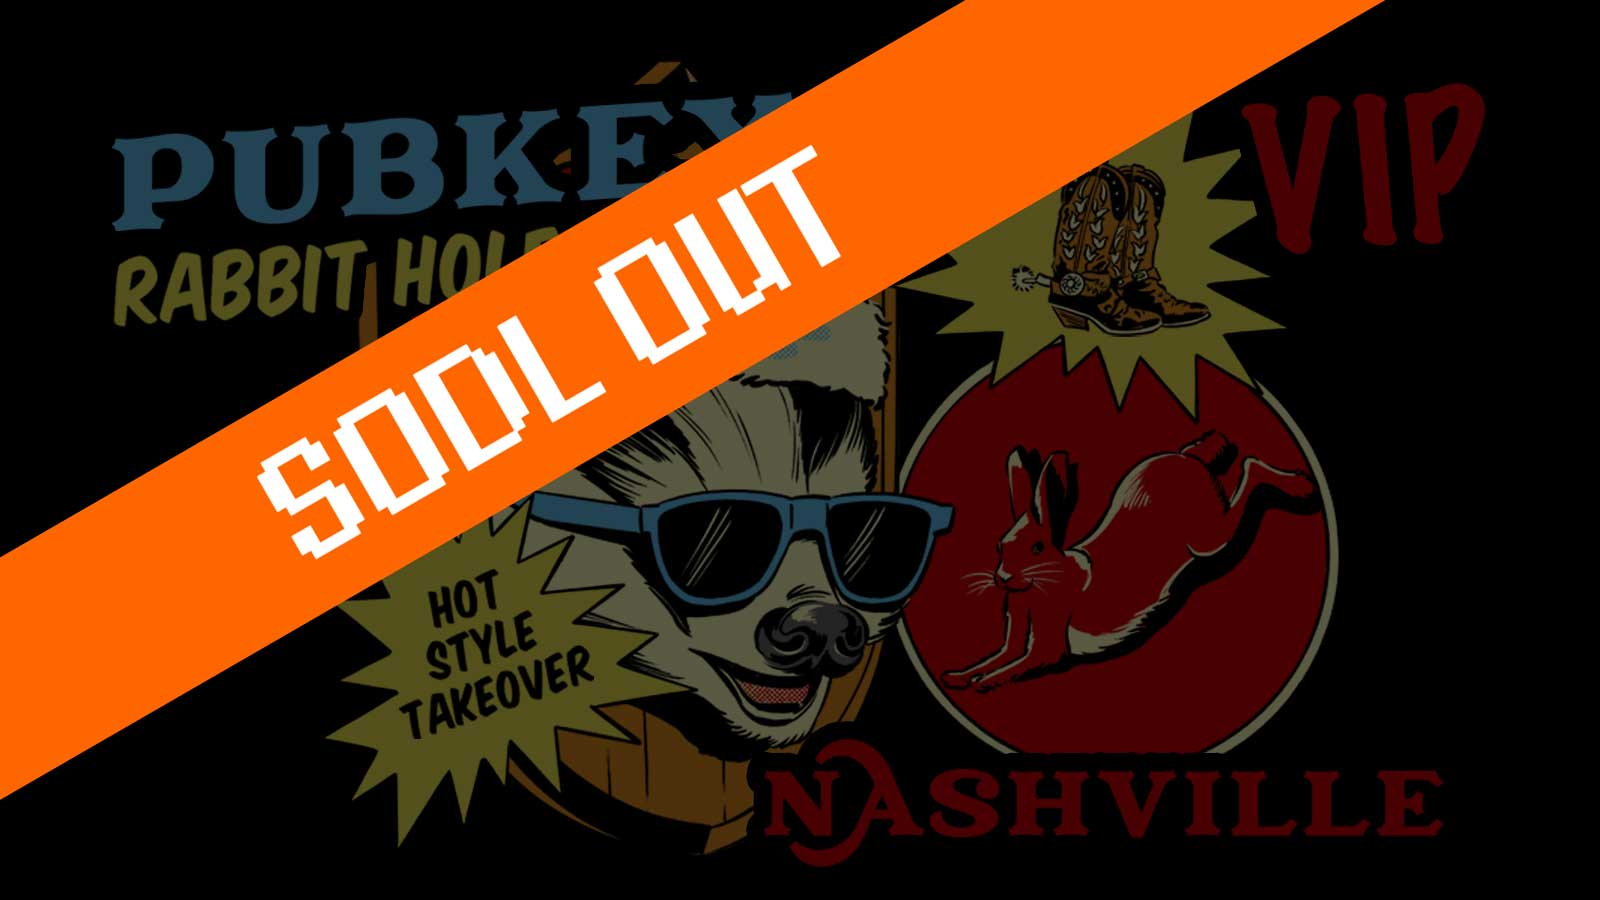
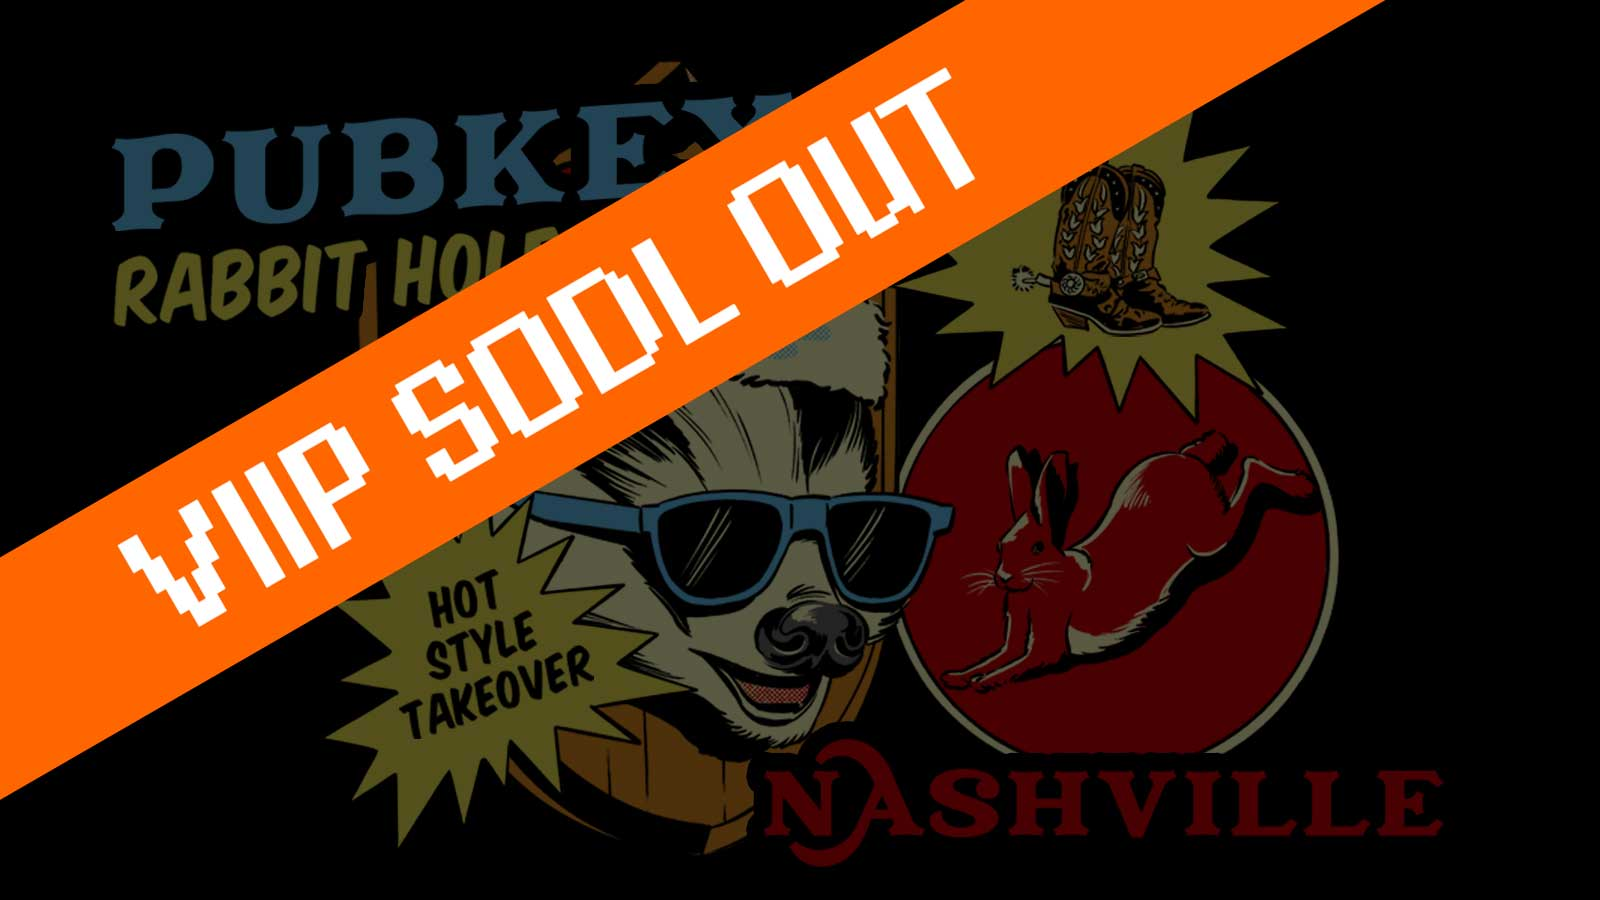
Updates to RHR

Changed region(s): [[0.0625, 0.0622, 0.625, 0.6844], [0.7812, 0.0933, 0.9375, 0.28]]

diff --git a/src/app/rhr/page.tsx b/src/app/rhr/page.tsx
@@ -8,12 +8,12 @@ const SideBySideImagesWithPrice: React.FC<{ imageUrl1: string, imageUrl2: string
           <img src={imageUrl1} alt="Image 1" className="item-image" />
         </a>
         <div className="item-name">{itemName1}</div>
-        <div className="item-price"><a href={linkUrl1} target="_blank" rel="noopener noreferrer">$50</a></div>
+        <div className="item-price"><a href={linkUrl1} target="_blank" rel="noopener noreferrer">$50 STILL AVAILABLE</a></div>
       </div>
       <div className="item-container">
           <img src={imageUrl2} alt="Image 2" className="item-image" />
         <div className="item-name">{itemName2}</div>
-        <div className="item-price">SODL OUT!</div>
+        <div className="item-price"><del>$121 SODL OUT!</del></div>
       </div>
     </div>
   );
